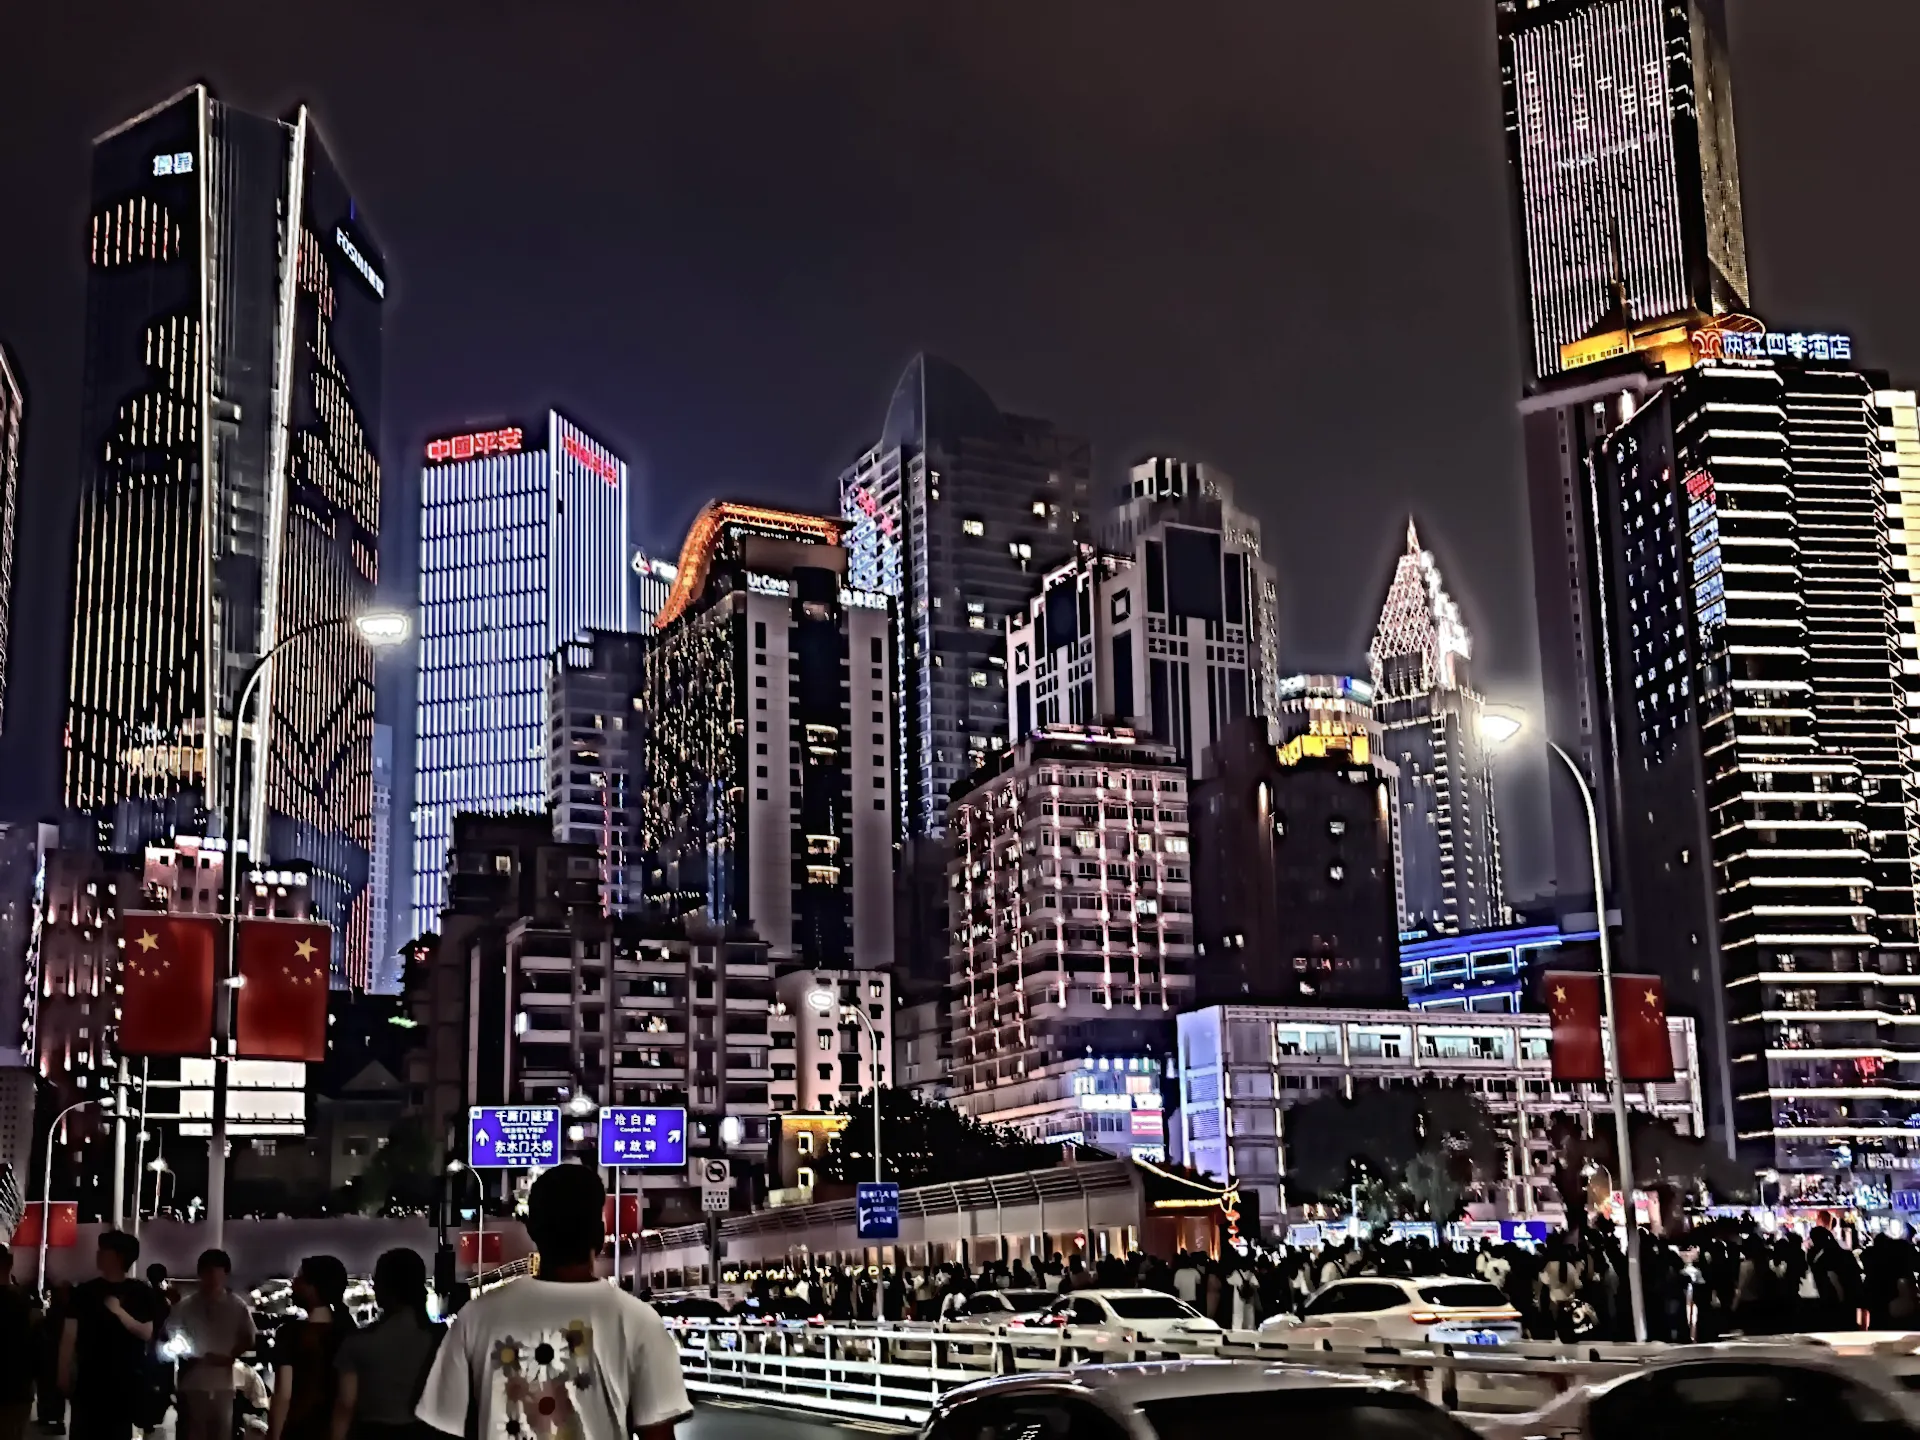
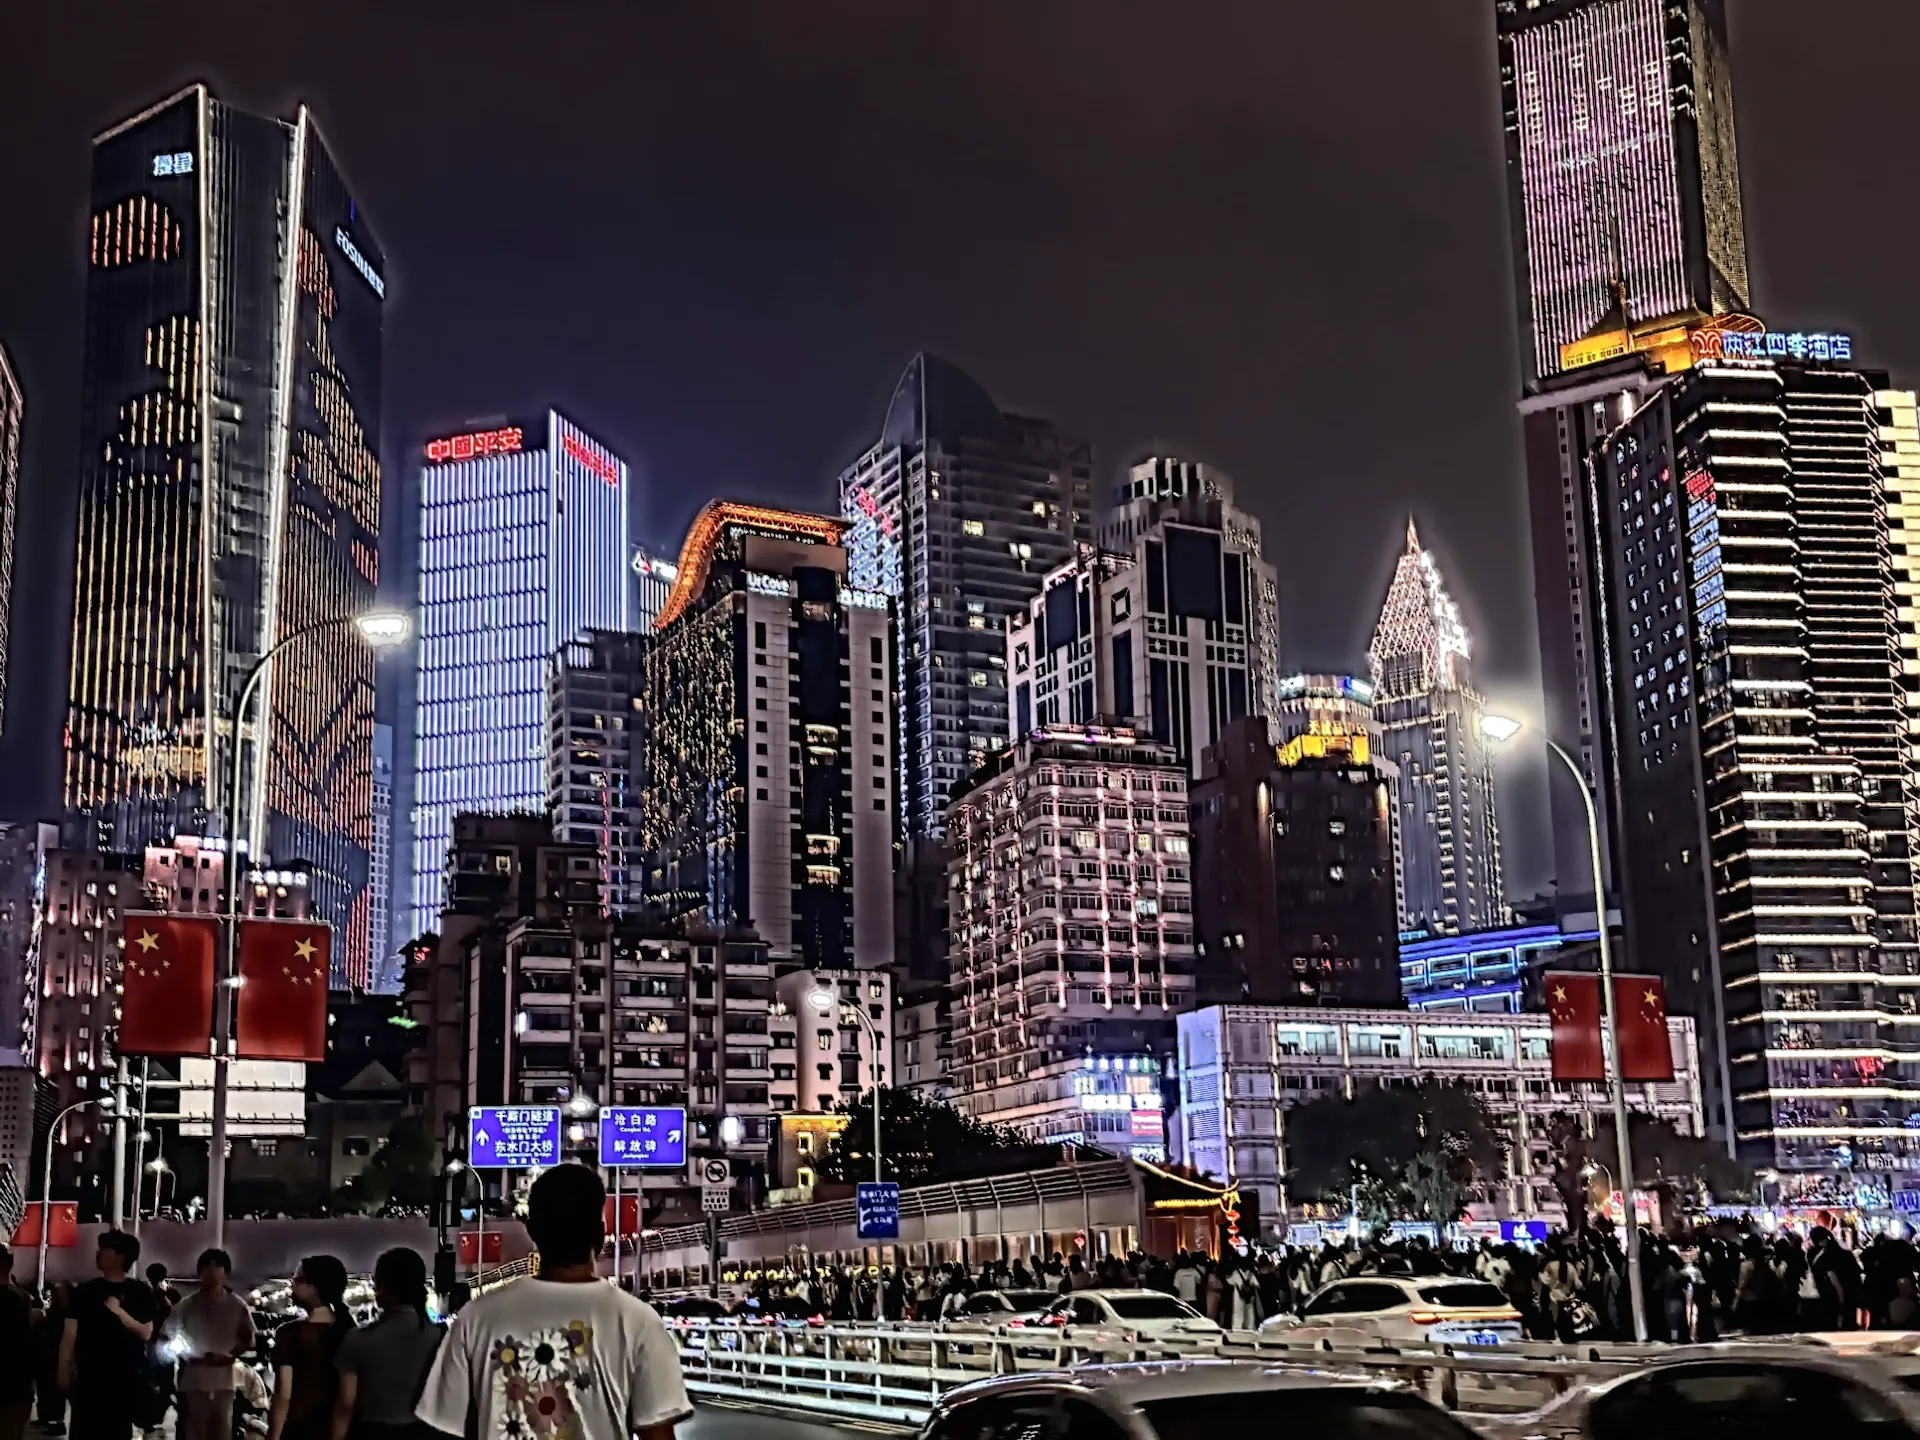
Lab rue : image plus nette (masque flou, brume allégée, dessin moins lissé)
Claude-Session: https://claude.ai/code/session_013Xw59nF2gje1EUSeavtxjp

diff --git a/lib/rue/shaders.ts b/lib/rue/shaders.ts
@@ -228,11 +228,17 @@ void main() {
   float t = uTime * uMotion;
   vec3 col = texture(uScene, vUv).rgb;
   float d = texture(uDepthTex, vUv).r;
+  // Netteté : masque flou à 1 px (la photo passe par un maillage et un
+  // rééchantillonnage qui l'adoucissent).
+  vec2 px = 1.0 / uRes;
+  vec3 nb = texture(uScene, vUv + vec2(px.x, 0.0)).rgb + texture(uScene, vUv - vec2(px.x, 0.0)).rgb
+          + texture(uScene, vUv + vec2(0.0, px.y)).rgb + texture(uScene, vUv - vec2(0.0, px.y)).rgb;
+  col = max(col + (col - nb * 0.25) * 0.7, 0.0);
 
   // Brume entre les plans, éclairée par la ville (l'image très floue).
   vec3 haze = textureLod(uScene, vUv, 6.0).rgb * 1.3 + vec3(0.02, 0.03, 0.05);
   float fogN = fbm(vUv * vec2(3.0, 5.0) + vec2(t * 0.012, -t * 0.006));
-  float fog = (1.0 - d) * (0.16 + 0.2 * fogN) * (1.0 + uBreak * 0.6);
+  float fog = (1.0 - d) * (0.07 + 0.11 * fogN) * (1.0 + uBreak * 0.6);
   col = mix(col, haze, clamp(fog, 0.0, 0.6));
 
   // Relais des scènes : la rue s'éteint puis la suivante se rallume ; la

diff --git a/scripts/rue/dessin.py b/scripts/rue/dessin.py
@@ -10,9 +10,9 @@ Entrée et sortie en BGR.
 import cv2, numpy as np, sys
 def dessin(bgr, a=1.0):
     # 1. aplats : lissage qui préserve les bords (texture -> zones peintes)
-    flat = cv2.edgePreservingFilter(bgr, flags=cv2.RECURS_FILTER, sigma_s=40, sigma_r=0.25)
+    flat = cv2.edgePreservingFilter(bgr, flags=cv2.RECURS_FILTER, sigma_s=12, sigma_r=0.12)
     # 2. contraste local fort (rendu HDR / illustration)
-    det = cv2.detailEnhance(flat, sigma_s=12, sigma_r=0.2)
+    det = cv2.detailEnhance(flat, sigma_s=8, sigma_r=0.12)
     lab = cv2.cvtColor(det, cv2.COLOR_BGR2LAB)
     l, A, B = cv2.split(lab)
     l = cv2.createCLAHE(clipLimit=2.2, tileGridSize=(8, 8)).apply(l)
